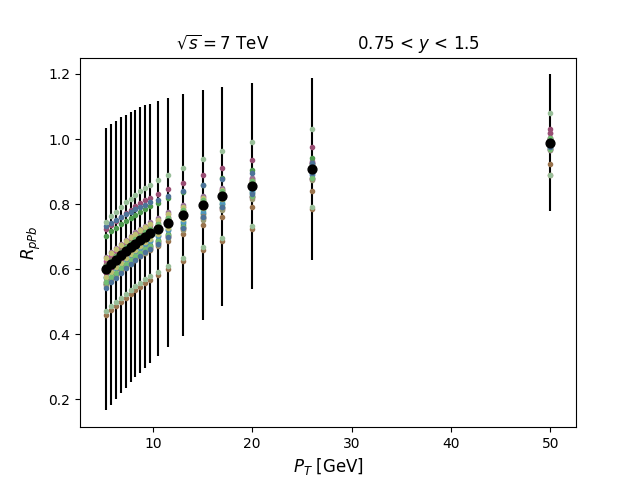
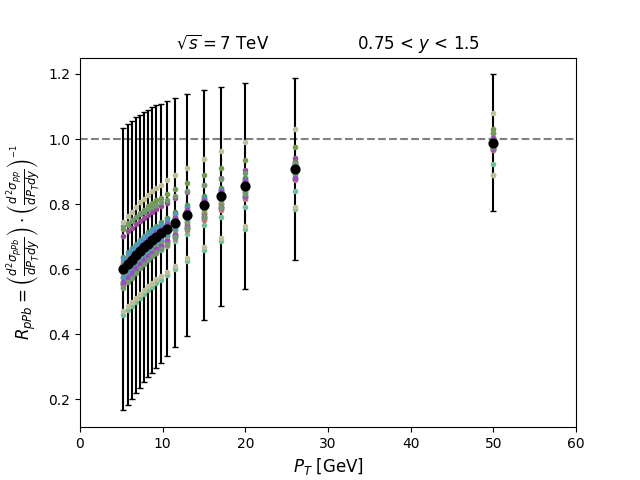
Improved plots

diff --git a/plot_ho.py b/plot_ho.py
@@ -5,6 +5,9 @@ import sys
 import os
 from random import shuffle
 
+#plt.style.use("seaborn")
+
+unity = [np.array([0, 100]), np.array([1,1])]
 y_bounds = [[2, 2.5],[2.5, 3],[3, 3.5],[3.5, 4],[4, 4.5],[0, 0.75],[0.75, 1.5],[1.5, 2],[2, 2.4],[0, 0.9],[0.9, 1.2],[1.2, 1.6],[1.6, 2.1],[2.1, 2.4]]
 #data  = np.loadtxt("./PROC_HO_0/P0_addon_fit_pp_psiX_CrystalBall/output/comparison_1.dat".format(i))
 
@@ -42,10 +45,11 @@ for j in range(1,15):
     errors = np.sqrt(errors)
 
     plt.xlabel(r"$P_T$ [GeV]", fontsize = 12)
-    plt.ylabel(r"$R_{pPb}$", fontsize  = 12)
+    plt.ylabel(r"$R_{pPb} = \left(\frac{d^2\sigma_{pPb}}{dP_Tdy}\right)\cdot \left(\frac{d^2\sigma_{pp}}{dP_Tdy}\right)^{^{-1}}$", fontsize  = 12)
     plt.title(r"$\sqrt{s} = 7$ TeV                 " + "{} < $y$ < {}".format(y_bounds[j-1][0], y_bounds[j-1][1]), fontsize  = 12)
-    
-    plt.errorbar(ev_list[0][:,0], ev_list[0][:,1]/p_array, yerr = errors/p_array, zorder = 9, color = (0,0,0), fmt="")
+    plt.xlim(0,60)
+    plt.plot(unity[0], unity[1], "--", color = (0.5,0.5,0.5), zorder = 1)
+    plt.errorbar(ev_list[0][:,0], ev_list[0][:,1]/p_array, yerr = errors/p_array, zorder = 9, color = (0,0,0), fmt="", capsize=2)
     plt.scatter(ev_list[0][:,0], ev_list[0][:,1]/p_array, marker="o", zorder = 999, color = (0,0,0), s = 40)
     plt.savefig("plots/comparison_{}".format(j))
     plt.show()
